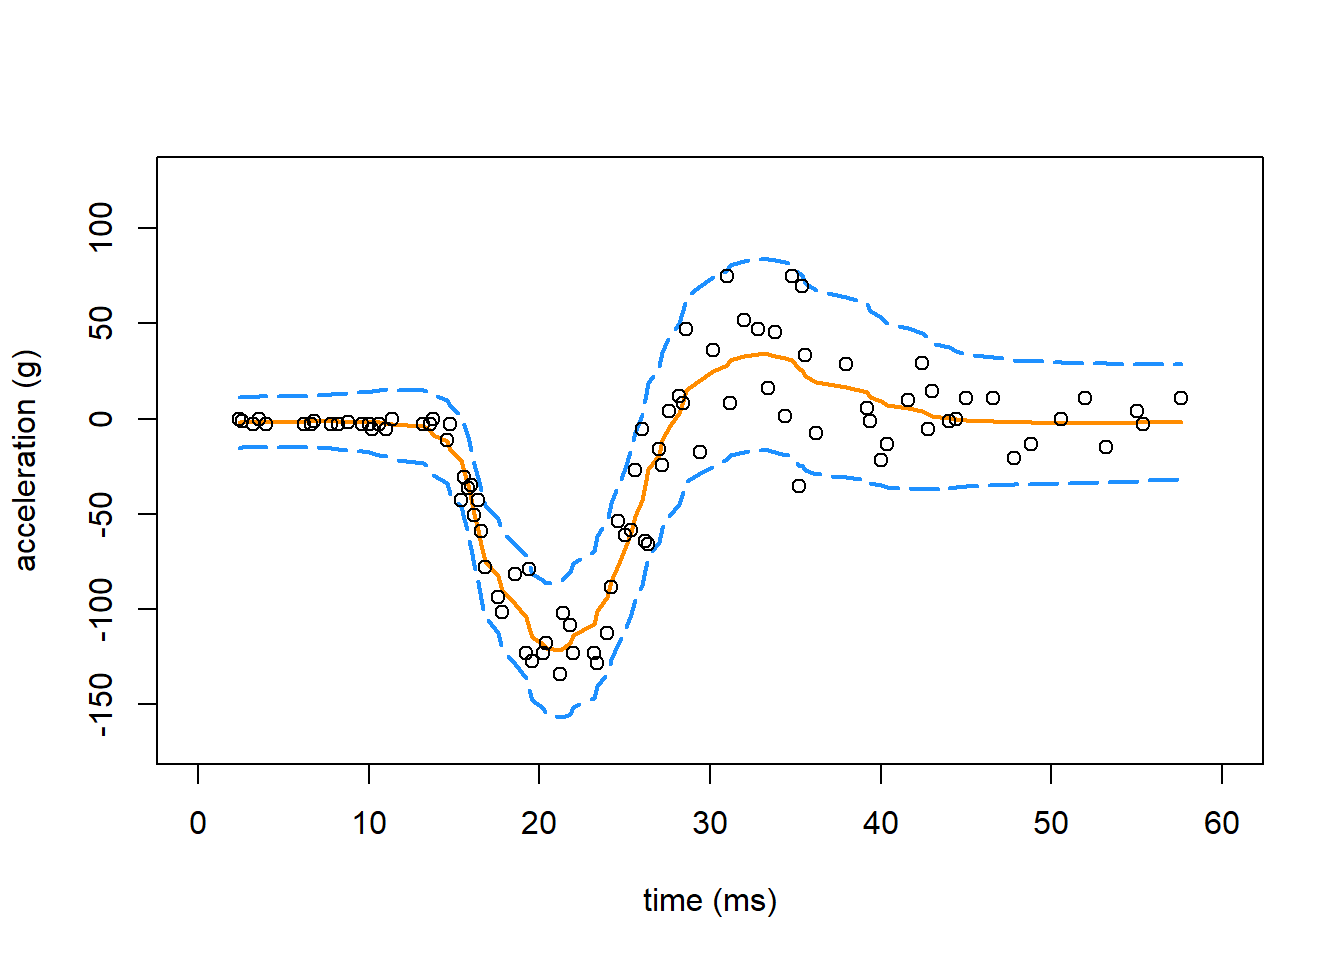
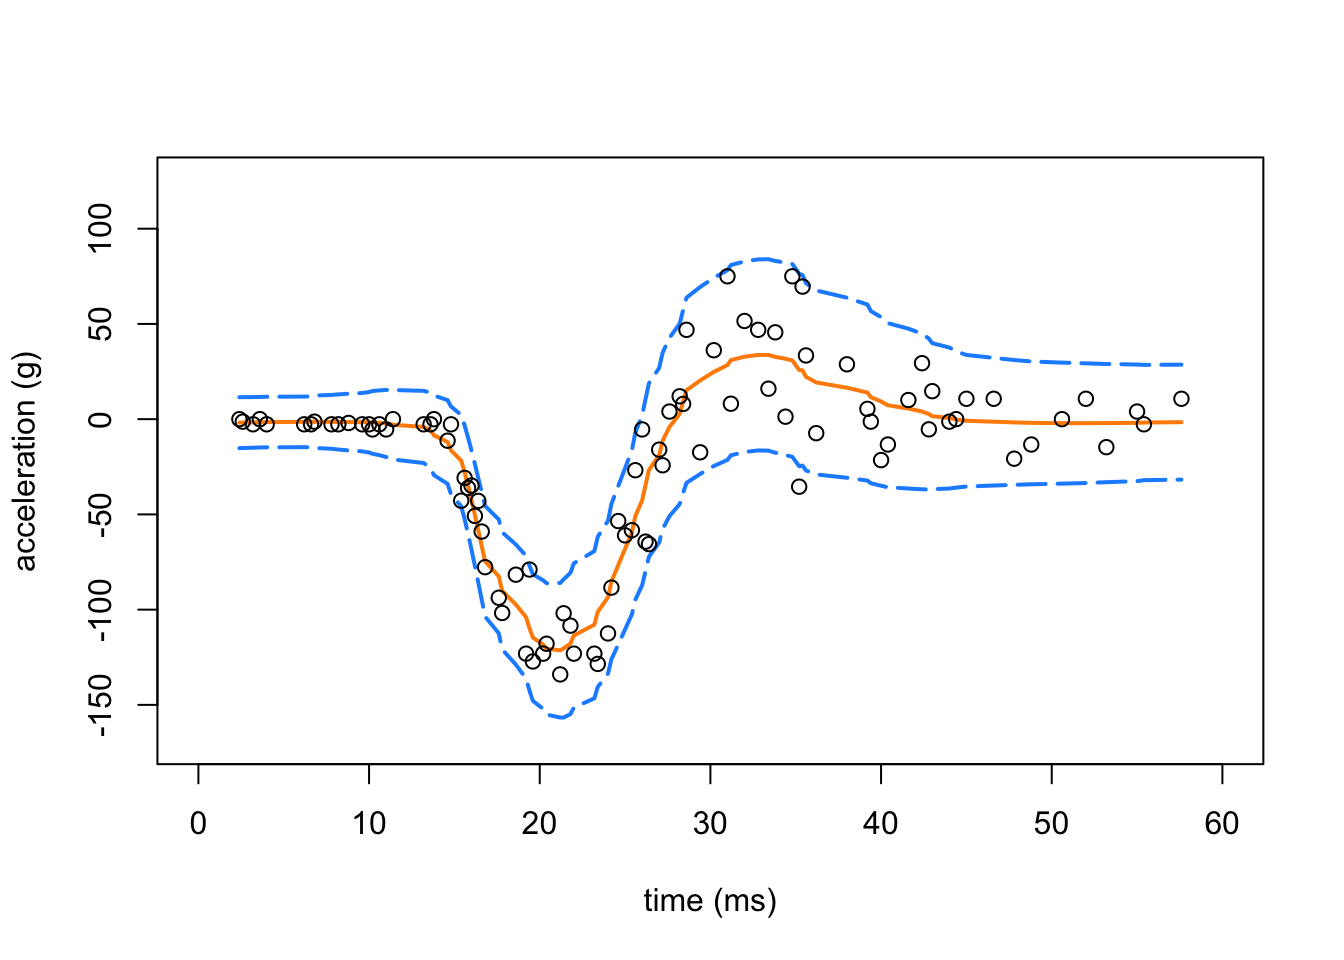
Added comparison to TI thresholding in motorcycle data example.

diff --git a/docs/motorcycle.html b/docs/motorcycle.html
@@ -328,7 +328,7 @@ div.section {
 <div class="tab-content">
 <div id="summary" class="tab-pane fade in active">
 <p>
-<strong>Last updated:</strong> 2019-10-27
+<strong>Last updated:</strong> 2019-12-18
 </p>
 <p>
 <strong>Checks:</strong> <span class="glyphicon glyphicon-ok text-success" aria-hidden="true"></span> 7 <span class="glyphicon glyphicon-exclamation-sign text-danger" aria-hidden="true"></span> 0
@@ -338,7 +338,7 @@ div.section {
 </p>
 <p>
 This reproducible <a href="http://rmarkdown.rstudio.com">R Markdown</a> analysis was created with <a
-  href="https://github.com/jdblischak/workflowr">workflowr</a> (version 1.4.0). The <em>Checks</em> tab describes the reproducibility checks that were applied when the results were created. The <em>Past versions</em> tab lists the development history.
+  href="https://github.com/jdblischak/workflowr">workflowr</a> (version 1.5.0.9000). The <em>Checks</em> tab describes the reproducibility checks that were applied when the results were created. The <em>Past versions</em> tab lists the development history.
 </p>
 <hr>
 </div>
@@ -419,29 +419,50 @@ This reproducible <a href="http://rmarkdown.rstudio.com">R Markdown</a> analysis
 <div class="panel panel-default">
 <div class="panel-heading">
 <p class="panel-title">
-<a data-toggle="collapse" data-parent="#workflowr-checks" href="#strongRepositoryversionstrongahrefhttpsgithubcomstephenslabsmashpapertreef0221c57754f27ee83db649f39a808895e4c1294targetblankf0221c5a"> <span class="glyphicon glyphicon-ok text-success" aria-hidden="true"></span> <strong>Repository version:</strong> <a href="https://github.com/stephenslab/smash-paper/tree/f0221c57754f27ee83db649f39a808895e4c1294" target="_blank">f0221c5</a> </a>
+<a data-toggle="collapse" data-parent="#workflowr-checks" href="#strongRepositoryversionstrongahrefhttpsgithubcomstephenslabsmashpapertreec76fbf74094b5562950b8feba4c641ab45b803fetargetblankc76fbf7a"> <span class="glyphicon glyphicon-ok text-success" aria-hidden="true"></span> <strong>Repository version:</strong> <a href="https://github.com/stephenslab/smash-paper/tree/c76fbf74094b5562950b8feba4c641ab45b803fe" target="_blank">c76fbf7</a> </a>
 </p>
 </div>
[2 lines of base64/hex data omitted]
 <div class="panel-body">
 <p>
 Great! You are using Git for version control. Tracking code development and connecting the code version to the results is critical for reproducibility. The version displayed above was the version of the Git repository at the time these results were generated. <br><br> Note that you need to be careful to ensure that all relevant files for the analysis have been committed to Git prior to generating the results (you can use <code>wflow_publish</code> or <code>wflow_git_commit</code>). workflowr only checks the R Markdown file, but you know if there are other scripts or data files that it depends on. Below is the status of the Git repository when the results were generated:
 </p>
 <pre><code>
 Ignored files:
-    Ignored:    .Rproj.user/C795A467/ctx/
-    Ignored:    .Rproj.user/C795A467/explorer-cache/
-    Ignored:    .Rproj.user/C795A467/presentation/
-    Ignored:    .Rproj.user/C795A467/profiles-cache/
-    Ignored:    .Rproj.user/C795A467/sources/per/
-    Ignored:    .Rproj.user/C795A467/viewer-cache/
+    Ignored:    dsc/code/Wavelab850/MEXSource/CPAnalysis.mexmac
+    Ignored:    dsc/code/Wavelab850/MEXSource/DownDyadHi.mexmac
+    Ignored:    dsc/code/Wavelab850/MEXSource/DownDyadLo.mexmac
+    Ignored:    dsc/code/Wavelab850/MEXSource/FAIPT.mexmac
+    Ignored:    dsc/code/Wavelab850/MEXSource/FCPSynthesis.mexmac
+    Ignored:    dsc/code/Wavelab850/MEXSource/FMIPT.mexmac
+    Ignored:    dsc/code/Wavelab850/MEXSource/FWPSynthesis.mexmac
+    Ignored:    dsc/code/Wavelab850/MEXSource/FWT2_PO.mexmac
+    Ignored:    dsc/code/Wavelab850/MEXSource/FWT_PBS.mexmac
+    Ignored:    dsc/code/Wavelab850/MEXSource/FWT_PO.mexmac
+    Ignored:    dsc/code/Wavelab850/MEXSource/FWT_TI.mexmac
+    Ignored:    dsc/code/Wavelab850/MEXSource/IAIPT.mexmac
+    Ignored:    dsc/code/Wavelab850/MEXSource/IMIPT.mexmac
+    Ignored:    dsc/code/Wavelab850/MEXSource/IWT2_PO.mexmac
+    Ignored:    dsc/code/Wavelab850/MEXSource/IWT_PBS.mexmac
+    Ignored:    dsc/code/Wavelab850/MEXSource/IWT_PO.mexmac
+    Ignored:    dsc/code/Wavelab850/MEXSource/IWT_TI.mexmac
+    Ignored:    dsc/code/Wavelab850/MEXSource/LMIRefineSeq.mexmac
+    Ignored:    dsc/code/Wavelab850/MEXSource/MedRefineSeq.mexmac
+    Ignored:    dsc/code/Wavelab850/MEXSource/UpDyadHi.mexmac
+    Ignored:    dsc/code/Wavelab850/MEXSource/UpDyadLo.mexmac
+    Ignored:    dsc/code/Wavelab850/MEXSource/WPAnalysis.mexmac
+    Ignored:    dsc/code/Wavelab850/MEXSource/dct_ii.mexmac
+    Ignored:    dsc/code/Wavelab850/MEXSource/dct_iii.mexmac
+    Ignored:    dsc/code/Wavelab850/MEXSource/dct_iv.mexmac
+    Ignored:    dsc/code/Wavelab850/MEXSource/dst_ii.mexmac
+    Ignored:    dsc/code/Wavelab850/MEXSource/dst_iii.mexmac
 
 Untracked files:
-    Untracked:  .Rproj.user/shared/notebooks/ABDC647A-motorcycle/
+    Untracked:  analysis/motorcycle.R
+    Untracked:  files.txt
 
 Unstaged changes:
-    Modified:   .Rproj.user/C795A467/sources/prop/7A16E638
-    Modified:   .Rproj.user/C795A467/sources/s-662254EE/6240C782
+    Modified:   code/motorcycle.functions.R
 
 </code></pre>
 <p>
@@ -480,6 +501,74 @@ Message
 </tr>
 </thead>
 <tbody>
+<tr>
+<td>
+Rmd
+</td>
+<td>
+<a href="https://github.com/stephenslab/smash-paper/blob/c76fbf74094b5562950b8feba4c641ab45b803fe/analysis/motorcycle.Rmd" target="_blank">c76fbf7</a>
+</td>
+<td>
+Peter Carbonetto
+</td>
+<td>
+2019-12-18
+</td>
+<td>
+wflow_publish(“motorcycle.Rmd”)
+</td>
+</tr>
+<tr>
+<td>
+Rmd
+</td>
+<td>
+<a href="https://github.com/stephenslab/smash-paper/blob/35a397ae8ecf07cf8a5b0da3d165ad6729cd39b8/analysis/motorcycle.Rmd" target="_blank">35a397a</a>
+</td>
+<td>
+Peter Carbonetto
+</td>
+<td>
+2019-11-12
+</td>
+<td>
+Simplifying some of the code in poisson.Rmd.
+</td>
+</tr>
+<tr>
+<td>
+Rmd
+</td>
+<td>
+<a href="https://github.com/stephenslab/smash-paper/blob/500381a3f5d9799d9c93ae022519fb216c9b5d0e/analysis/motorcycle.Rmd" target="_blank">500381a</a>
+</td>
+<td>
+Zhengrong Xing
+</td>
+<td>
+2019-10-28
+</td>
+<td>
+move gausdemo; add HF for chipseq
+</td>
+</tr>
+<tr>
+<td>
+html
+</td>
+<td>
+<a href="https://rawcdn.githack.com/stephenslab/smash-paper/500381a3f5d9799d9c93ae022519fb216c9b5d0e/docs/motorcycle.html" target="_blank">500381a</a>
+</td>
+<td>
+Zhengrong Xing
+</td>
+<td>
+2019-10-28
+</td>
+<td>
+move gausdemo; add HF for chipseq
+</td>
+</tr>
 <tr>
 <td>
 html
@@ -824,7 +913,7 @@ Working on motorcycle .Rmd example.
 </div>
 <div id="set-up-r-environment" class="section level2">
 <h2>Set up R environment</h2>
-<p>Load the MASS, lattice wavethresh, EbayesThresh and smashr packages. The MASS package is loaded only for the Motorcycle Accident data. Some additional functions are defined in <code>functions.motorcycle.R</code>.</p>
+<p>Load the MASS, lattice wavethresh, EbayesThresh and smashr packages. The MASS package is loaded only for the Motorcycle Accident data. Some additional functions are defined in file <code>motorcycle.functions.R</code>.</p>
 <pre class="r"><code>library(MASS)
 library(lattice)
 library(smashr)
@@ -908,20 +997,10 @@ Peter Carbonetto
 </div>
 </div>
 </div>
-<div id="apply-smash-again-this-time-assuming-equal-variances" class="section level2">
-<h2>Apply SMASH again, this time assuming equal variances</h2>
-<p>Apply SMASH (assuming equal variances) to the Motorcycle Accident data set.</p>
+<div id="smash-homoskedastic-vs.heteroskedastic" class="section level2">
+<h2>SMASH, homoskedastic vs. heteroskedastic</h2>
+<p>Apply SMASH, this time assuming equal variances, to the Motorcycle Accident data set:</p>
 <pre class="r"><code>res.cons.mc &lt;- smash.cons.wrapper(x.ini.mc,y.ini.mc)</code></pre>
-</div>
-<div id="apply-ti-thresholding-to-the-motorcycle-accident-data" class="section level2">
-<h2>Apply TI thresholding to the Motorcycle Accident data</h2>
-<p>Apply TI thresholding to the Motorcycle Accident data set.</p>
-<pre class="r"><code>res.ti.cons.mc &lt;- tithresh.cons.wrapper(x.ini.mc,y.ini.mc)</code></pre>
-<p>Apply TI thresholding to the Motorcycle Accident data, this time using the variances estimated by SMASH.</p>
-<pre class="r"><code>res.ti.mc &lt;- tithresh.wrapper(x.ini.mc,y.ini.mc)</code></pre>
-</div>
-<div id="compare-results-from-all-methods" class="section level2">
-<h2>Compare results from all methods</h2>
 <p>In this second plot, we compare the mean estimate provided by SMASH (with heteroskedastic variances; orange line) against homoskedastic SMASH (dotted, light blue line).</p>
 <pre class="r"><code>plot(res.mc$x,res.mc$mu.est,type = &quot;l&quot;,
      ylim = c(min(res.mc$y - 2 * sqrt(res.mc$var.est)),
@@ -991,14 +1070,29 @@ Peter Carbonetto
 </table>
 </div>
 </div>
-<p>And in this next plot, we compare the SMASH estimates (the orange line) against the the mean estimates obtained by TI thresholding (dark blue line), and TI thresholding when the variances have been estimated by SMASH (dotted green line).</p>
+<p>While the estimates are similar, heteroskedastic SMASH yields a noticeably smoother curve.</p>
+</div>
+<div id="apply-ti-thresholding-to-the-motorcycle-accident-data" class="section level2">
+<h2>Apply TI thresholding to the Motorcycle Accident data</h2>
+<p>Apply TI thresholding to the Motorcycle Accident data set. In this first run, the variance is assumed to be constant.</p>
+<pre class="r"><code>res.ti.cons.mc &lt;- tithresh.cons.wrapper(x.ini.mc,y.ini.mc)</code></pre>
+<p>Apply TI thresholding to the Motorcycle Accident data, this time using the variances estimated using the “median absolute deviation”, or RMAD, method.</p>
+<pre class="r"><code>res.ti.rmad.mc &lt;- tithresh.rmad.wrapper(x.ini.mc,y.ini.mc)</code></pre>
+<p>Apply TI thresholding to the Motorcycle Accident data, this time using the variances estimated by SMASH.</p>
+<pre class="r"><code>res.ti.mc &lt;- tithresh.wrapper(x.ini.mc,y.ini.mc)</code></pre>
+</div>
+<div id="compare-smash-vs.ti-thresholding" class="section level2">
+<h2>Compare SMASH vs. TI thresholding</h2>
+<p>In this next plot, we compare the SMASH estimates with heteroskedastic variances (the same orange line as above) against the the mean estimates obtained by TI thresholding with constant variance (solid dark blue line), TI thresholding with RMAD variance estimates (solid light blue line), and TI thresholding when the variances have been estimated by SMASH (dotted green line).</p>
 <pre class="r"><code>plot(res.mc$x,res.mc$mu.est,type = &quot;l&quot;,
      ylim = c(min(res.mc$y - 2 * sqrt(res.mc$var.est)),
               max(res.mc$y + 2 * sqrt(res.mc$var.est))),
      xlab = &quot;time (ms)&quot;,ylab = &quot;acceleration (g)&quot;,lwd = 2,
      col = &quot;darkorange&quot;,xlim = c(0,60),xaxp = c(0,60,6))
 lines(res.ti.cons.mc$x,res.ti.cons.mc$mu.est,lwd = 2,lty = &quot;solid&quot;,
-      col = &quot;darkblue&quot;)
+     col = &quot;darkblue&quot;)
+lines(res.ti.rmad.mc$x,res.ti.rmad.mc$mu.est,lwd = 2,lty = &quot;solid&quot;,
+      col = &quot;dodgerblue&quot;)
 lines(res.ti.mc$x,res.ti.mc$mu.est,lwd = 2,col = &quot;limegreen&quot;,lty = &quot;dotted&quot;)
 points(res.mc$x,res.mc$y,pch = 1,cex = 0.8,col = &quot;black&quot;)</code></pre>
 <p><img src="figure/motorcycle.Rmd/plot-ti-thresh-estimates-1.png" width="672" style="display: block; margin: auto;" /></p>
@@ -1050,7 +1144,7 @@ Peter Carbonetto
 </table>
 </div>
 </div>
-<p>The TI thresholding estimate and the SMASH estimate with homoskedastic variances both show notable artifacts. When the TI thresholding method is provided with the SMASH variance estimate, the mean signal is substantially smoother.</p>
+<p>The TI thresholding estimate, like the SMASH estimate with homoskedastic variances, shows notable artifacts. When TI thresholding estimates the variance using RMAD, or when it is provided with the SMASH variance estimate, the mean signal is substantially smoother.</p>
 <br>
 <p>
 <button type="button" class="btn btn-default btn-workflowr btn-workflowr-sessioninfo" data-toggle="collapse" data-target="#workflowr-sessioninfo" style="display: block;">
@@ -1059,39 +1153,38 @@ Peter Carbonetto
 </p>
 <div id="workflowr-sessioninfo" class="collapse">
 <pre class="r"><code>sessionInfo()
-# R version 3.6.1 (2019-07-05)
-# Platform: x86_64-w64-mingw32/x64 (64-bit)
-# Running under: Windows 10 x64 (build 17134)
+# R version 3.4.3 (2017-11-30)
+# Platform: x86_64-apple-darwin15.6.0 (64-bit)
+# Running under: macOS High Sierra 10.13.6
 # 
 # Matrix products: default
+# BLAS: /Library/Frameworks/R.framework/Versions/3.4/Resources/lib/libRblas.0.dylib
+# LAPACK: /Library/Frameworks/R.framework/Versions/3.4/Resources/lib/libRlapack.dylib
 # 
 # locale:
-# [1] LC_COLLATE=English_United States.1252 
-# [2] LC_CTYPE=English_United States.1252   
-# [3] LC_MONETARY=English_United States.1252
-# [4] LC_NUMERIC=C                          
-# [5] LC_TIME=English_United States.1252    
+# [1] en_US.UTF-8/en_US.UTF-8/en_US.UTF-8/C/en_US.UTF-8/en_US.UTF-8
 # 
 # attached base packages:
 # [1] stats     graphics  grDevices utils     datasets  methods   base     
 # 
 # other attached packages:
-# [1] EbayesThresh_1.4-12 wavethresh_4.6.8    smashr_1.2-5       
-# [4] lattice_0.20-38     MASS_7.3-51.4      
+# [1] EbayesThresh_1.4-13 wavethresh_4.6.8    smashr_1.2-5       
+# [4] lattice_0.20-35     MASS_7.3-48        
 # 
 # loaded via a namespace (and not attached):
-#  [1] Rcpp_1.0.2        knitr_1.25        whisker_0.4      
-#  [4] magrittr_1.5      workflowr_1.4.0   pscl_1.5.2       
-#  [7] doParallel_1.0.15 SQUAREM_2017.10-1 rlang_0.4.0      
-# [10] foreach_1.4.7     ashr_2.2-39       stringr_1.4.0    
-# [13] caTools_1.17.1.2  tools_3.6.1       parallel_3.6.1   
-# [16] grid_3.6.1        data.table_1.12.6 xfun_0.10        
-# [19] git2r_0.26.1      iterators_1.0.12  htmltools_0.4.0  
-# [22] yaml_2.2.0        rprojroot_1.3-2   digest_0.6.21    
-# [25] mixsqp_0.2-2      Matrix_1.2-17     bitops_1.0-6     
-# [28] codetools_0.2-16  fs_1.3.1          glue_1.3.1       
-# [31] evaluate_0.14     rmarkdown_1.16    stringi_1.4.3    
-# [34] compiler_3.6.1    backports_1.1.5   truncnorm_1.0-8</code></pre>
+#  [1] Rcpp_1.0.1           compiler_3.4.3       later_0.8.0         
+#  [4] git2r_0.26.1         workflowr_1.5.0.9000 bitops_1.0-6        
+#  [7] iterators_1.0.10     tools_3.4.3          digest_0.6.18       
+# [10] evaluate_0.13        Matrix_1.2-12        foreach_1.4.4       
+# [13] yaml_2.2.0           parallel_3.4.3       xfun_0.7            
+# [16] stringr_1.4.0        knitr_1.23           fs_1.2.7            
+# [19] caTools_1.17.1.2     rprojroot_1.3-2      grid_3.4.3          
+# [22] glue_1.3.1           data.table_1.12.0    R6_2.4.0            
+# [25] rmarkdown_1.17       mixsqp_0.3-6         ashr_2.2-39         
+# [28] magrittr_1.5         whisker_0.3-2        backports_1.1.2     
+# [31] promises_1.0.1       codetools_0.2-15     htmltools_0.3.6     
+# [34] httpuv_1.5.0         stringi_1.4.3        doParallel_1.0.14   
+# [37] pscl_1.5.2           truncnorm_1.0-8      SQUAREM_2017.10-1</code></pre>
 </div>
 </div>
 
